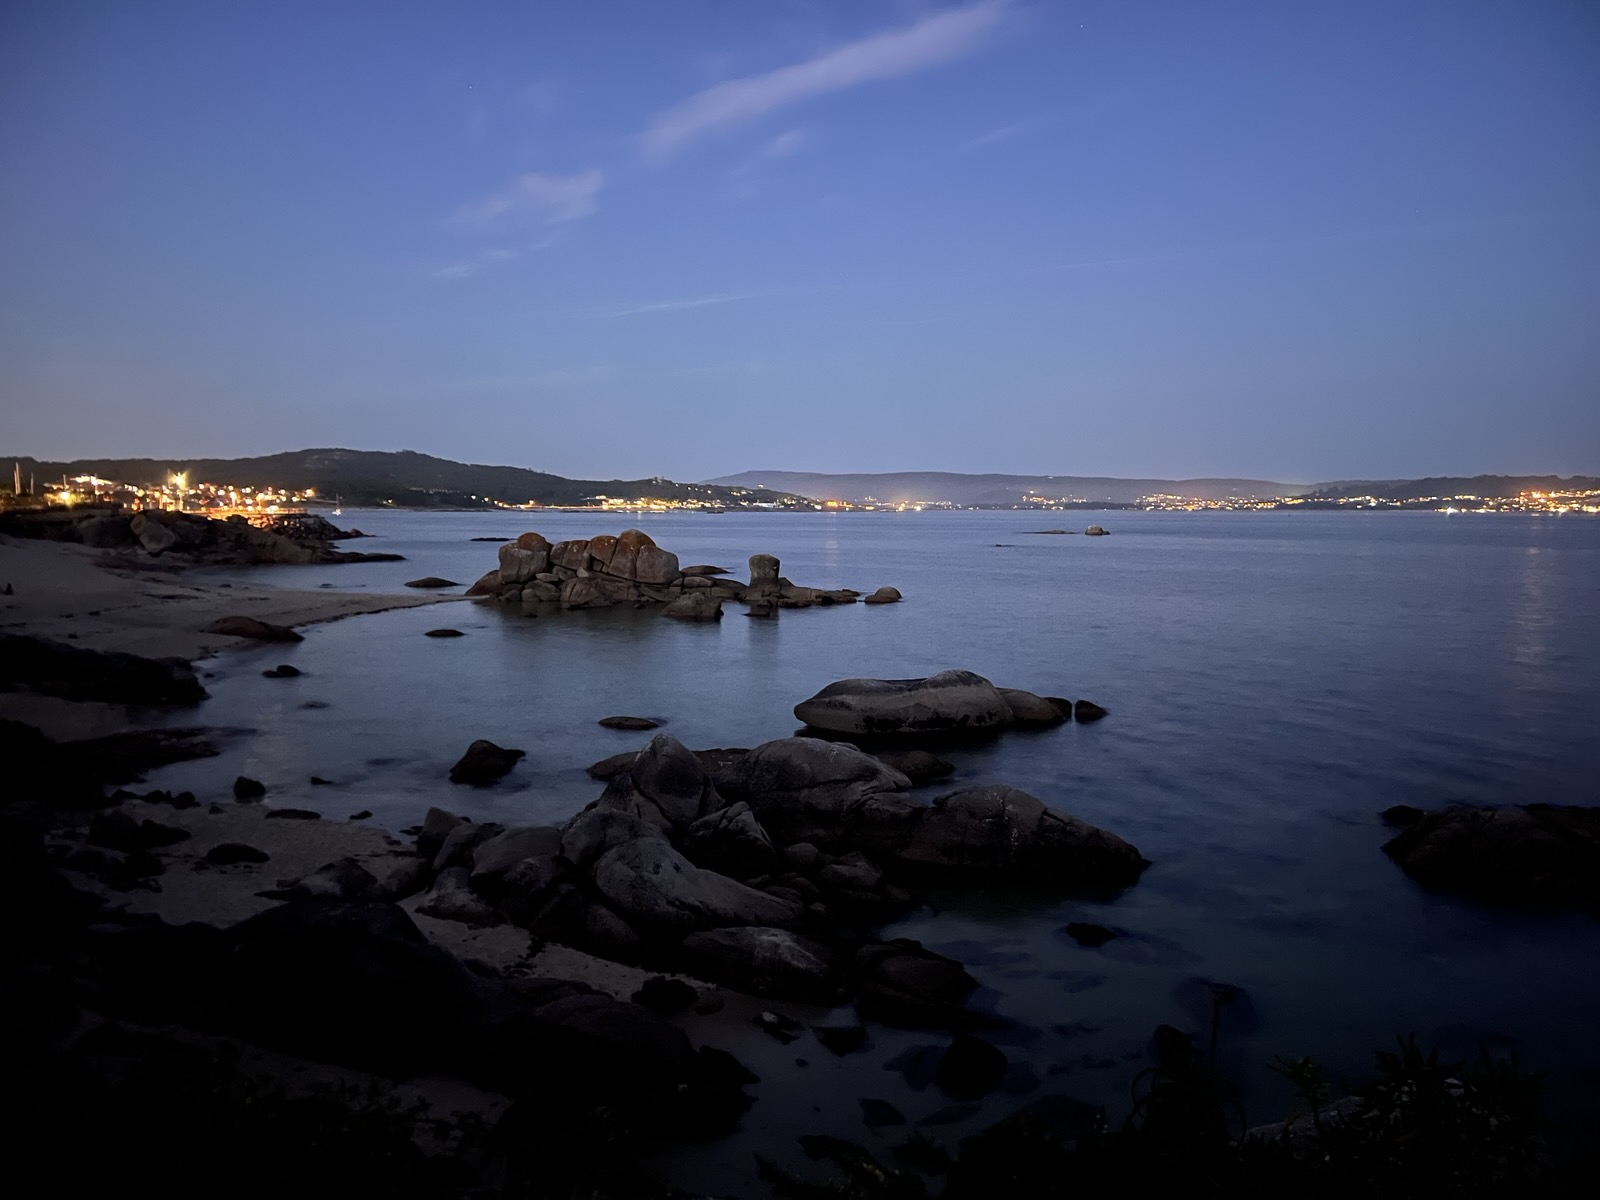
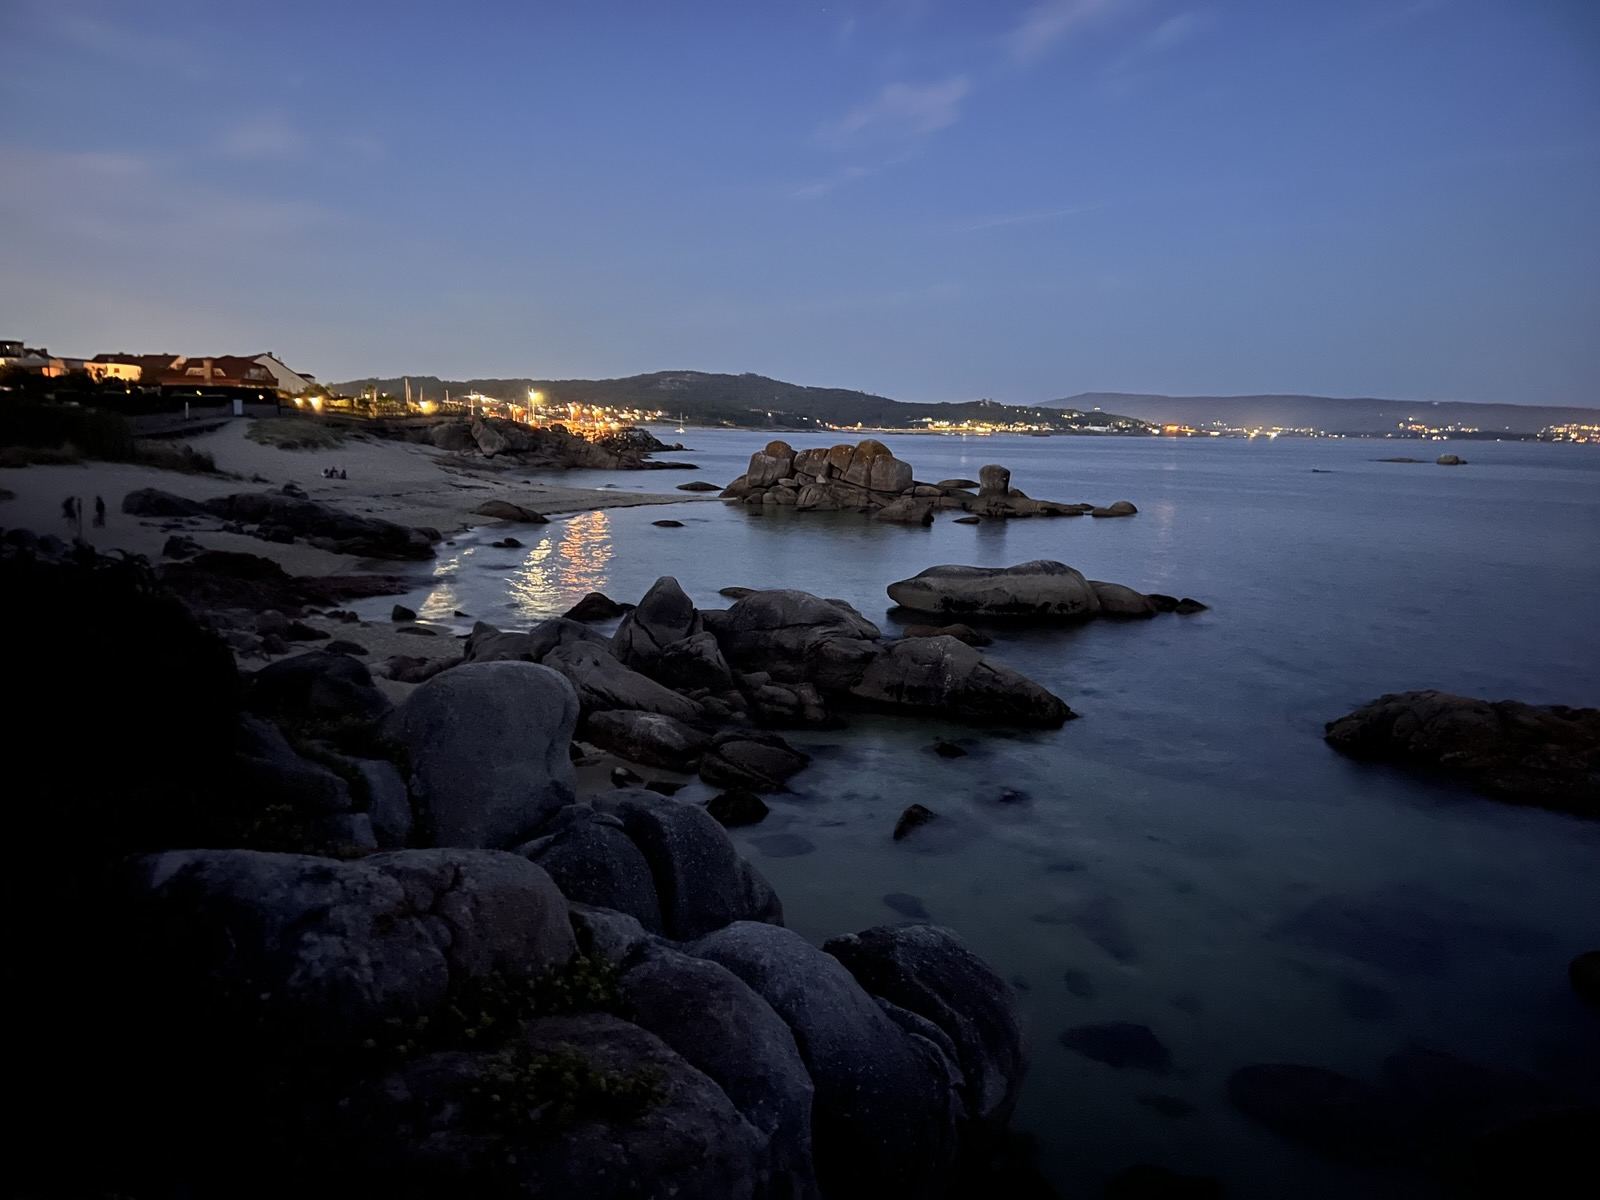
Update: De vacaciones, pero no del todo

diff --git a/_posts/2026-08-17-de-vacaciones-pero-no-del-todo.md b/_posts/2026-08-17-de-vacaciones-pero-no-del-todo.md
@@ -1,0 +1,17 @@
+---
+title: De vacaciones, pero no del todo
+date: 2026-08-17
+title: De vacaciones, pero no del todo
+summary: Aproveché unos días libres para rehacer el blog y comprobar que puedo publicar desde el móvil sin perder el control del contenido.
+tags: [meta]
+sharing: [linkedin, twitter]
+---
+Da igual cuántas vacaciones me tome: siempre acabo metido en algo relacionado con la tecnología. Esta vez el motivo han sido las últimas semanas, en las que he estado usando bastante Claude, y aproveché el tiempo libre para darle una vuelta completa a este blog.
+
+El objetivo era poder publicar de forma sencilla desde el móvil, pero sin perder algo que me importaba: que mi contenido, aunque acabe compartido en redes sociales, aparezca siempre primero en mi sitio personal. Aquí, no en LinkedIn ni en X.
+
+Este primer artículo es justo la prueba de eso: si lo estás leyendo en Twitter o en LinkedIn, es porque el sistema ha funcionado — pero el original sigue viviendo en [saltodemata.es](https://www.saltodemata.es).
+
+
+
+<img class="full" src="/assets/images/blog/2026/08/17/de-vacaciones-pero-no-del-todo/1.jpg">
